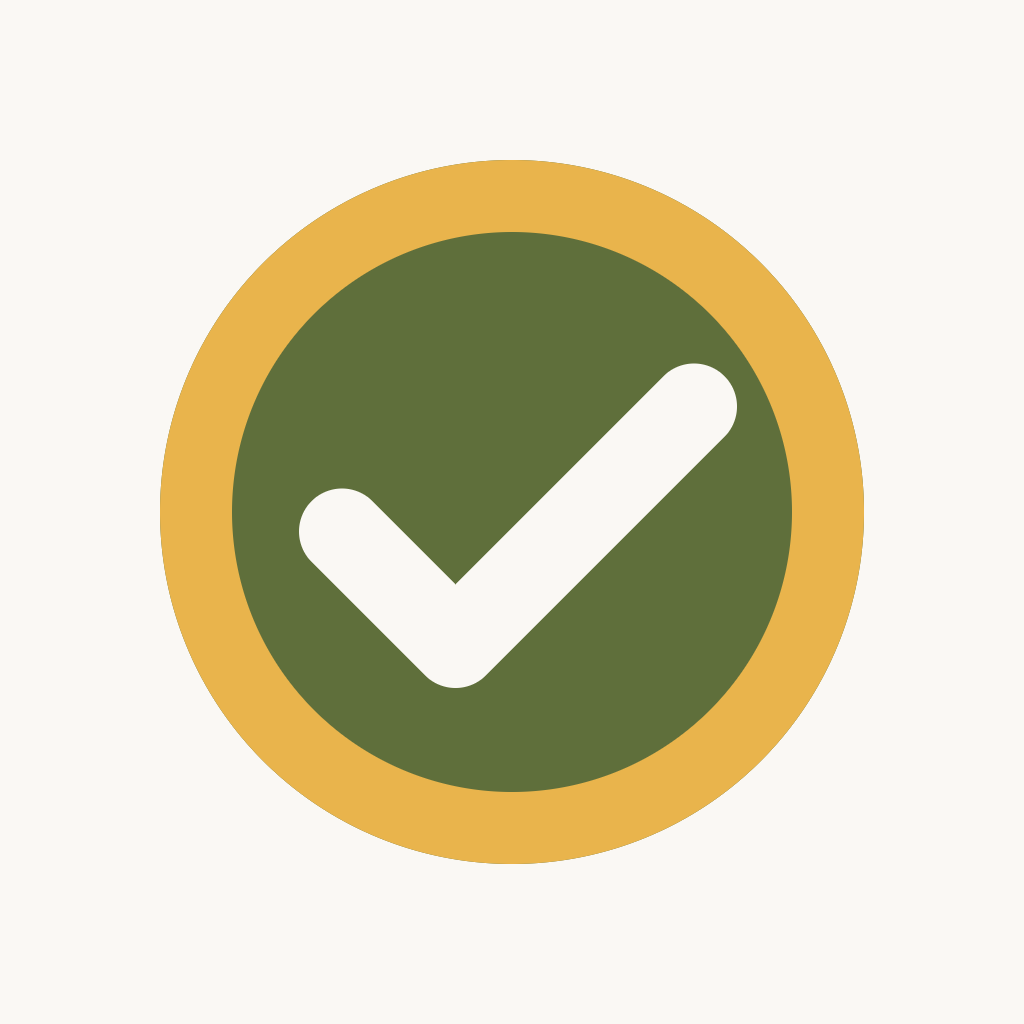
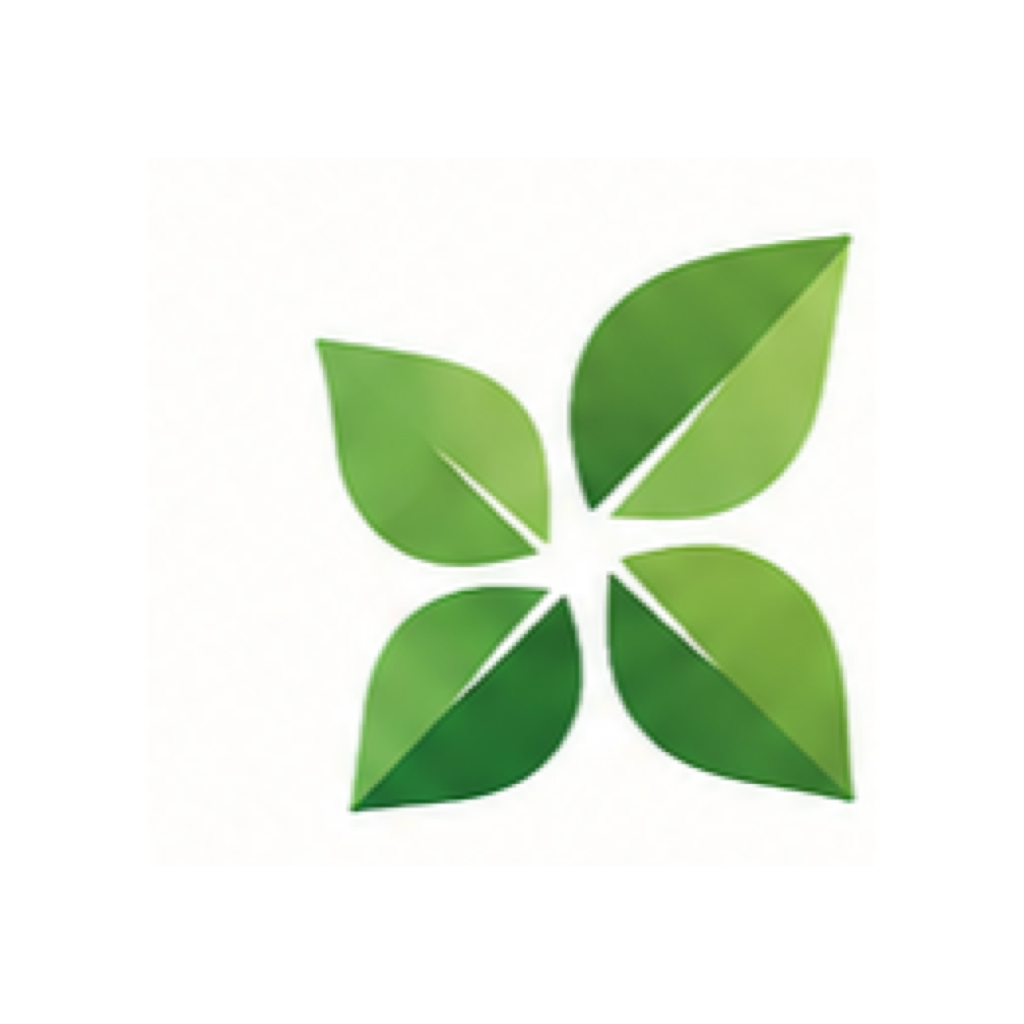
feat: add BrandLogo component with wordmark and vertical variants
- Implemented BrandLogo component to display different logo variants based on the provided prop.
- Added image assets for wordmark and vertical logos.

docs: create initial specification for task management features

- Defined structure for tasks, including main tasks and subtasks.
- Specified checklist integration for tasks and subtasks.
- Outlined team assignment options and notification processes for task completion and approval.

diff --git a/apps/web/src/styles.css b/apps/web/src/styles.css
@@ -71,8 +71,23 @@ input:focus, textarea:focus, select:focus { border-color: var(--accent); }
   display: flex; flex-direction: column; gap: 4px;
 }
 .app__brand {
-  font-family: var(--font-serif); font-size: 28px; line-height: 1; padding: 4px 8px 16px;
-  font-style: italic;
+  padding: 2px 8px 16px;
+}
+.brand-logo {
+  display: block;
+  object-fit: contain;
+}
+.brand-logo--wordmark {
+  width: 144px;
+  height: auto;
+}
+.brand-logo--vertical {
+  width: 252px;
+  max-width: 100%;
+  height: auto;
+}
+.login-brand {
+  margin: 0 auto 12px;
 }
 .app__nav-link {
   padding: 9px 12px; border-radius: 8px; font-size: 13px; font-weight: 500;

diff --git a/apps/mobile/src/BrandLogo.tsx b/apps/mobile/src/BrandLogo.tsx
@@ -1,0 +1,17 @@
+import { Image } from 'react-native';
+
+declare const require: any;
+
+const wordmark = require('../assets/brand/leaflow-wordmark.png');
+const lockup = require('../assets/brand/leaflow-lockup.png');
+
+export function BrandLogo({ variant = 'wordmark', style }: { variant?: 'wordmark' | 'lockup'; style?: any }) {
+  return (
+    <Image
+      source={variant === 'lockup' ? lockup : wordmark}
+      resizeMode="contain"
+      accessibilityLabel="Leaflow"
+      style={style}
+    />
+  );
+}

diff --git a/apps/web/src/components/BrandLogo.tsx b/apps/web/src/components/BrandLogo.tsx
@@ -1,0 +1,12 @@
+import wordmark from '../assets/leaflow-wordmark.png';
+import vertical from '../assets/leaflow-vertical.png';
+
+type BrandLogoProps = {
+  variant?: 'wordmark' | 'vertical';
+  className?: string;
+};
+
+export function BrandLogo({ variant = 'wordmark', className = '' }: BrandLogoProps) {
+  const src = variant === 'vertical' ? vertical : wordmark;
+  return <img className={`brand-logo brand-logo--${variant} ${className}`.trim()} src={src} alt="Leaflow" />;
+}

diff --git a/apps/mobile/src/screens/Login.tsx b/apps/mobile/src/screens/Login.tsx
@@ -2,6 +2,7 @@ import { useState } from 'react';
 import { View, Text, TextInput, StyleSheet, KeyboardAvoidingView, Platform } from 'react-native';
 import { useAuth } from '../auth';
 import { Btn, Card } from '../components';
+import { BrandLogo } from '../BrandLogo';
 import { T } from '../theme';
 
 export default function LoginScreen() {
@@ -29,8 +30,8 @@ export default function LoginScreen() {
       style={s.page}
     >
       <Card style={s.card}>
-        <Text style={s.title}>Provit</Text>
-        <Text style={s.subtitle}>Görev — atama — ispat — onay</Text>
+        <BrandLogo style={s.logo} />
+        <Text style={s.subtitle}>Where work flows naturally</Text>
 
         <Text style={s.label}>E-posta</Text>
         <TextInput style={s.input} autoCapitalize="none" keyboardType="email-address" value={email} onChangeText={setEmail} />
@@ -46,7 +47,7 @@ export default function LoginScreen() {
 
         <View style={s.hint}>
           <Text style={s.hintTitle}>AGENTECHAUTH</Text>
-          <Text style={s.hintLine}>Provit hesabı ile giriş yapın.</Text>
+          <Text style={s.hintLine}>Leaflow hesabı ile giriş yapın.</Text>
         </View>
       </Card>
     </KeyboardAvoidingView>
@@ -56,7 +57,7 @@ export default function LoginScreen() {
 const s = StyleSheet.create({
   page: { flex: 1, backgroundColor: T.bg, justifyContent: 'center', padding: 20 },
   card: { padding: 24 },
-  title: { fontSize: 36, fontStyle: 'italic', marginBottom: 4, color: T.ink },
+  logo: { width: 230, height: 50, alignSelf: 'flex-start', marginBottom: 8 },
   subtitle: { color: T.mute, marginBottom: 24 },
   label: { fontSize: 10, color: T.muteSoft, textTransform: 'uppercase', letterSpacing: 1.2, marginTop: 12, marginBottom: 4 },
   input: { borderColor: T.line, borderWidth: 1, borderRadius: T.radiusSm, padding: 10, fontSize: 14, color: T.ink },

diff --git a/apps/web/src/pages/Login.tsx b/apps/web/src/pages/Login.tsx
@@ -2,6 +2,7 @@ import { useState } from 'react';
 import { useNavigate, useLocation, Navigate } from 'react-router-dom';
 import { useAuth } from '../auth';
 import { Card, Button } from '../components/UI';
+import { BrandLogo } from '../components/BrandLogo';
 
 export default function Login() {
   const { user, login } = useAuth();
@@ -31,9 +32,9 @@ export default function Login() {
   return (
     <div className="login-page">
       <Card style={{ width: 'min(420px, 100%)', padding: 32 }}>
-        <h1 className="h-serif" style={{ fontStyle: 'italic', fontSize: 40, margin: '0 0 4px' }}>Provit</h1>
+        <BrandLogo variant="vertical" className="login-brand" />
         <div className="muted" style={{ marginBottom: 24, fontSize: 13 }}>
-          Görev — atama — ispat — onay
+          Where work flows naturally
         </div>
 
         <form onSubmit={submit}>
@@ -55,7 +56,7 @@ export default function Login() {
           <div className="mono" style={{ fontSize: 10, textTransform: 'uppercase', letterSpacing: 1.2, marginBottom: 6, color: 'var(--mute-soft)' }}>
             Agentechauth
           </div>
-          <div>Provit hesabı ile giriş yapın.</div>
+          <div>Leaflow hesabı ile giriş yapın.</div>
         </div>
       </Card>
     </div>

diff --git a/apps/web/src/components/Layout.tsx b/apps/web/src/components/Layout.tsx
@@ -5,6 +5,7 @@ import { useAuth } from '../auth';
 import { api } from '../api';
 import { Avatar, Button } from './UI';
 import { QuickTaskModal } from './QuickTaskModal';
+import { BrandLogo } from './BrandLogo';
 
 const NAV = [
   { to: '/', label: 'Pano', end: true },
@@ -34,7 +35,9 @@ export function Layout() {
   return (
     <div className="app">
       <aside className="app__sidebar">
-        <div className="app__brand">Provit</div>
+        <div className="app__brand">
+          <BrandLogo />
+        </div>
         <Button variant="accent" size="sm" onClick={() => setQuickOpen(true)} style={{ margin: '0 12px 12px' }}>
           + Hızlı görev
         </Button>

diff --git a/apps/web/index.html b/apps/web/index.html
@@ -3,7 +3,9 @@
   <head>
     <meta charset="utf-8" />
     <meta name="viewport" content="width=device-width, initial-scale=1" />
-    <title>Provit</title>
+    <title>Leaflow</title>
+    <link rel="icon" type="image/png" href="/favicon.png" />
+    <link rel="apple-touch-icon" href="/apple-touch-icon.png" />
     <link rel="preconnect" href="https://fonts.googleapis.com" />
     <link rel="preconnect" href="https://fonts.gstatic.com" crossorigin />
     <link

diff --git a/apps/mobile/src/screens/Profile.tsx b/apps/mobile/src/screens/Profile.tsx
@@ -3,6 +3,7 @@ import { useQuery } from '@tanstack/react-query';
 import { useAuth } from '../auth';
 import { api } from '../api';
 import { Card, Btn, Pill, Avatar, SectionLabel } from '../components';
+import { BrandLogo } from '../BrandLogo';
 import { T } from '../theme';
 
 export default function ProfileScreen({ navigation }: any) {
@@ -20,6 +21,7 @@ export default function ProfileScreen({ navigation }: any) {
   return (
     <ScrollView style={s.page} contentContainerStyle={{ padding: 16 }}>
       <Card style={{ alignItems: 'center', paddingVertical: 24 }}>
+        <BrandLogo style={s.logo} />
         <Avatar name={user?.displayName ?? '?'} size={72} />
         <Text style={s.name}>{user?.displayName}</Text>
         <Text style={s.email}>{user?.email}</Text>
@@ -73,6 +75,7 @@ export default function ProfileScreen({ navigation }: any) {
 
 const s = StyleSheet.create({
   page: { flex: 1, backgroundColor: T.bg },
+  logo: { width: 172, height: 38, marginBottom: 18 },
   name: { fontSize: 22, fontWeight: '700', color: T.ink, marginTop: 12 },
   email: { fontSize: 12, color: T.mute, marginTop: 2 },
   kpi: { flex: 1, padding: 12, alignItems: 'flex-start' },

diff --git a/spec/spec-mobile-01.md b/spec/spec-mobile-01.md
@@ -1,0 +1,12 @@
+## task
+
+1- Bir görev, ana görev veya görev grubu ve alt görevlerden oluşur. Bir görev tek alt görevden oluşacaksa bu basit görev oluştur checbox ile hızlıca oluşturulabilmelidir. Bu durumda ilk ekranda kullanıcı basit görev seçerse ayrıca alt görev oluşturması istenmez. Arka planda otomatik oluşturulur. checklist ve diğer seçmeli özellikler ana ekranda istenir.
+
+Alt görevlerden oluşması durumunda mevcut yapıda devam edilir.
+
+2- Bir ana görev ya da alt görevler checklist içerebilir. Mevcut cheklistlerden birisi seçilerek, mandatory ya da optional olarak görev/alt görev' e iliştirilebilir.
+
+3- Bir task eğer takıma atanıyorsa herkesin ayrı ayrı işlem yapması ya da ekipten bir kişinin yapması şeklinde olabilir. 
+ - Her takım üyesi ayrıca yapacaksa, eğer onay gerekiyorsa yöneticilerden birisi sonunda onaylar. Tüm tasklar yapılmamış olsa bile (yani bazı takım üyeleri yapmasa da) yönetici onaylayabilir. Zaten onaylama aşamasında emin misiniz sorusu sorulmalı. Task atandığında tüm takım üyelerine bildirim gider.
+ - Takım adına bir kişinin yapması durumunda, takım üyesi herhangi birisi işlemi yapar, eğer onay isteniyorsa yönetici onay verir. İşlem yapılınca yöneticiye obildirim gider. Task atandığında tüm takım üyelerine bildirim gider.
+ 